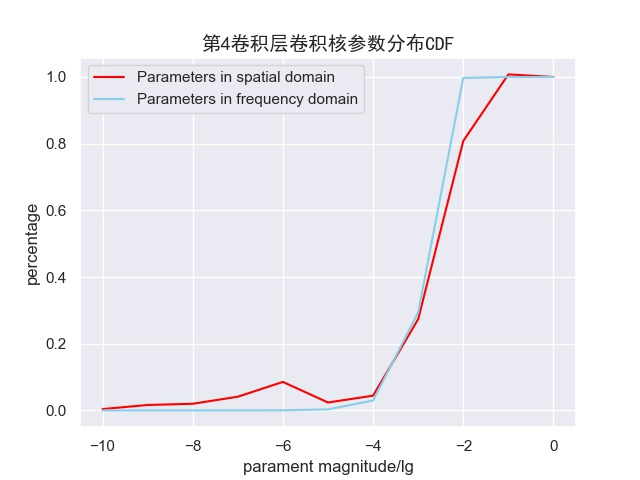
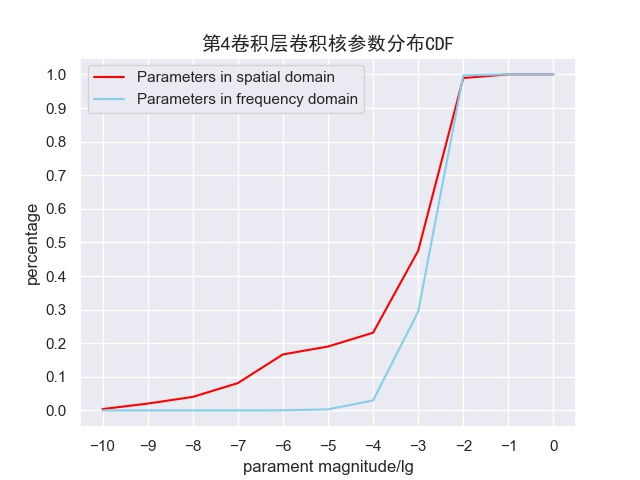
Fix bugs, change code style, Version 3.1

diff --git a/transform_conv.py b/transform_conv.py
@@ -1,12 +1,14 @@
 import torch
-import cv2
 import torchvision.models as models
 import matplotlib.pyplot as plt
 import seaborn as sns
 import numpy as np
+import math
+import cv2
 import os
 
 from matplotlib.font_manager import FontProperties
+from matplotlib.ticker import MultipleLocator
 
 
 def conv_to_matrix(conv):
@@ -45,33 +47,43 @@ if __name__ == "__main__":
     freq_matrix = conv_dct(net)
 
 
-# num_tmp = 0
-# for f in net.features:
-#     if isinstance(f, torch.nn.Conv2d):
-#         print(f.weight.size(), freq_matrix[num_tmp].shape)
-#         num_tmp += 1;
-
-
-# 计算参数的数量级
-def powerRes(myNum):
-    if myNum < 0:
-        myNum = -myNum
-    res = 10
-    if myNum < 1:
-        if myNum < 1e-10:
-            res = 0
-            return res
-        while myNum < 1:
-            myNum *= 10
-            res -= 1
+def power_res(weight):
+    """
+    calculate the magnitude of parameter
+    :param weight: parameter itself
+    :return: magnitude of parameter, that is lg(abs(weight))
+    """
+    if weight < 0:
+        weight = -weight
+    if weight > 1:
+        return 10
+    elif weight < 1e-10:
+        return 0
+    else:
+        res = math.floor(math.log(weight, 10)) + 10
     return res
 
 
 # 绘制并保存折线图
-def plotAndSave(w_space, w_freq, title, filename):
+def plot_save(w_space, w_freq, title, filename):
+    """
+
+    :param w_space:
+    :param w_freq:
+    :param title:
+    :param filename:
+    :return:
+    """
+    x_major_locator = MultipleLocator(1)
+    y_major_locator = MultipleLocator(0.1)
+    ax = plt.gca()
+    ax.xaxis.set_major_locator(x_major_locator)
+    ax.yaxis.set_major_locator(y_major_locator)
+    plt.xlim(-10.5, 0.5)
+    plt.ylim(-0.05, 1.05)
     plt.plot(np.arange(-10, 1), w_space, color="red", label='Parameters in spatial domain')
     plt.plot(np.arange(-10, 1), w_freq, color="skyblue", label='Parameters in frequency domain')
-    plt.legend()
+    plt.legend(loc='upper left')
     plt.ylabel('percentage')
     plt.xlabel('parament magnitude/lg')
     plt.title(title, FontProperties=font)
@@ -79,7 +91,7 @@ def plotAndSave(w_space, w_freq, title, filename):
     plt.close()
 
 
-convLayerCnt = 1
+conv_layer_cnt = 1
 para_cnt_space = np.zeros(11)
 para_cnt_freq = np.zeros(11)
 sns.set()
@@ -93,27 +105,25 @@ font = FontProperties(fname=r"C:\Windows\Fonts\simhei.ttf", size=14)
 
 for f in net.features:
     if isinstance(f, torch.nn.Conv2d):
-        print(convLayerCnt, '\t', f)
-        filterCnt, channelCnt, kernelWidth, kernelHeight = f.weight.size()[0], f.weight.size()[1], f.weight.size()[2], f.weight.size()[3]
-        filterSize = channelCnt * kernelWidth * kernelHeight
-        totalCnt = filterCnt * filterSize
-        allFilter1d = f.weight.data.view(filterCnt, filterSize).cpu().numpy()
-        curFreqMatrix = freq_matrix[convLayerCnt - 1]
-        for i in range(0, filterCnt):
-            for j in range(0, filterSize):
-                curWeight = allFilter1d[i][j]
-                powerResTemp = powerRes(curWeight)
-                para_cnt_space[powerResTemp] += 1
-                curWeight = curFreqMatrix[j][i]
-                powerResTemp = powerRes(curWeight)
-                para_cnt_freq[powerResTemp] += 1
-        para_cnt_space /= totalCnt
-        para_cnt_freq /= totalCnt
-        plotAndSave(para_cnt_space, para_cnt_freq, "第" + str(convLayerCnt) + "卷积层卷积核参数分布PDF", "./fig_comp/pdf/" + str(convLayerCnt) + ".jpg")
-        for i in range(1, len(para_cnt_freq)):
-            para_cnt_space[i] += para_cnt_freq[i - 1]
+        print(conv_layer_cnt, '\t', f)
+        filter_cnt, channel_cnt, kernel_width, kernel_weight = f.weight.size()[0], f.weight.size()[1], f.weight.size()[2], f.weight.size()[3]
+        filter_size = channel_cnt * kernel_width * kernel_weight
+        total_cnt = filter_cnt * filter_size
+        filters_space = f.weight.data.view(filter_cnt, filter_size).cpu().numpy()
+        filters_freq = freq_matrix[conv_layer_cnt - 1]
+        for i in range(0, filter_cnt):
+            for j in range(0, filter_size):
+                cur_weight = filters_space[i][j]
+                para_cnt_space[power_res(cur_weight)] += 1
+                cur_weight = filters_freq[j][i]
+                para_cnt_freq[power_res(cur_weight)] += 1
+        para_cnt_space /= total_cnt
+        para_cnt_freq /= total_cnt
+        plot_save(para_cnt_space, para_cnt_freq, "第" + str(conv_layer_cnt) + "卷积层卷积核参数分布PDF", "./fig_comp/pdf/" + str(conv_layer_cnt) + ".jpg")
+        for i in range(1, len(para_cnt_space)):
+            para_cnt_space[i] += para_cnt_space[i - 1]
             para_cnt_freq[i] += para_cnt_freq[i - 1]
-        plotAndSave(para_cnt_space, para_cnt_freq, "第" + str(convLayerCnt) + "卷积层卷积核参数分布CDF", "./fig_comp/cdf/" + str(convLayerCnt) + ".jpg")
-        convLayerCnt += 1
+        plot_save(para_cnt_space, para_cnt_freq, "第" + str(conv_layer_cnt) + "卷积层卷积核参数分布CDF", "./fig_comp/cdf/" + str(conv_layer_cnt) + ".jpg")
+        conv_layer_cnt += 1
         para_cnt_space = np.zeros(11)
         para_cnt_freq = np.zeros(11)
